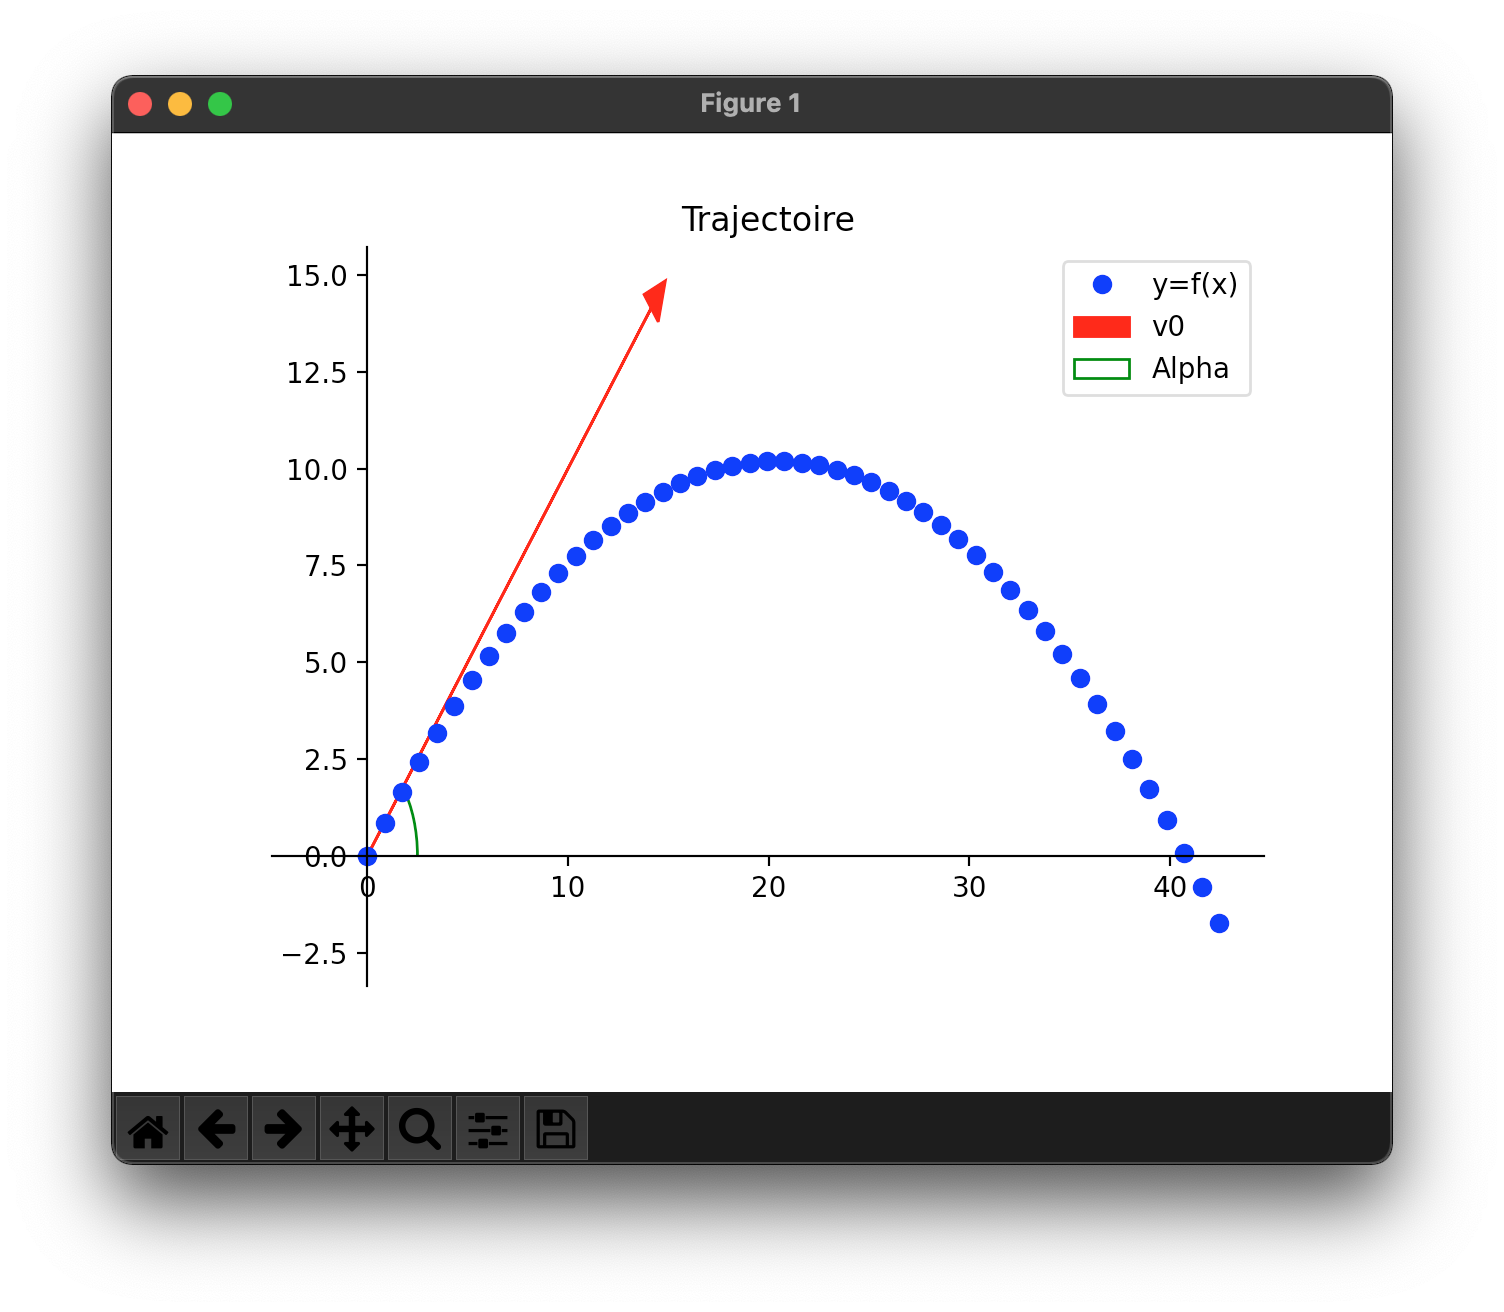
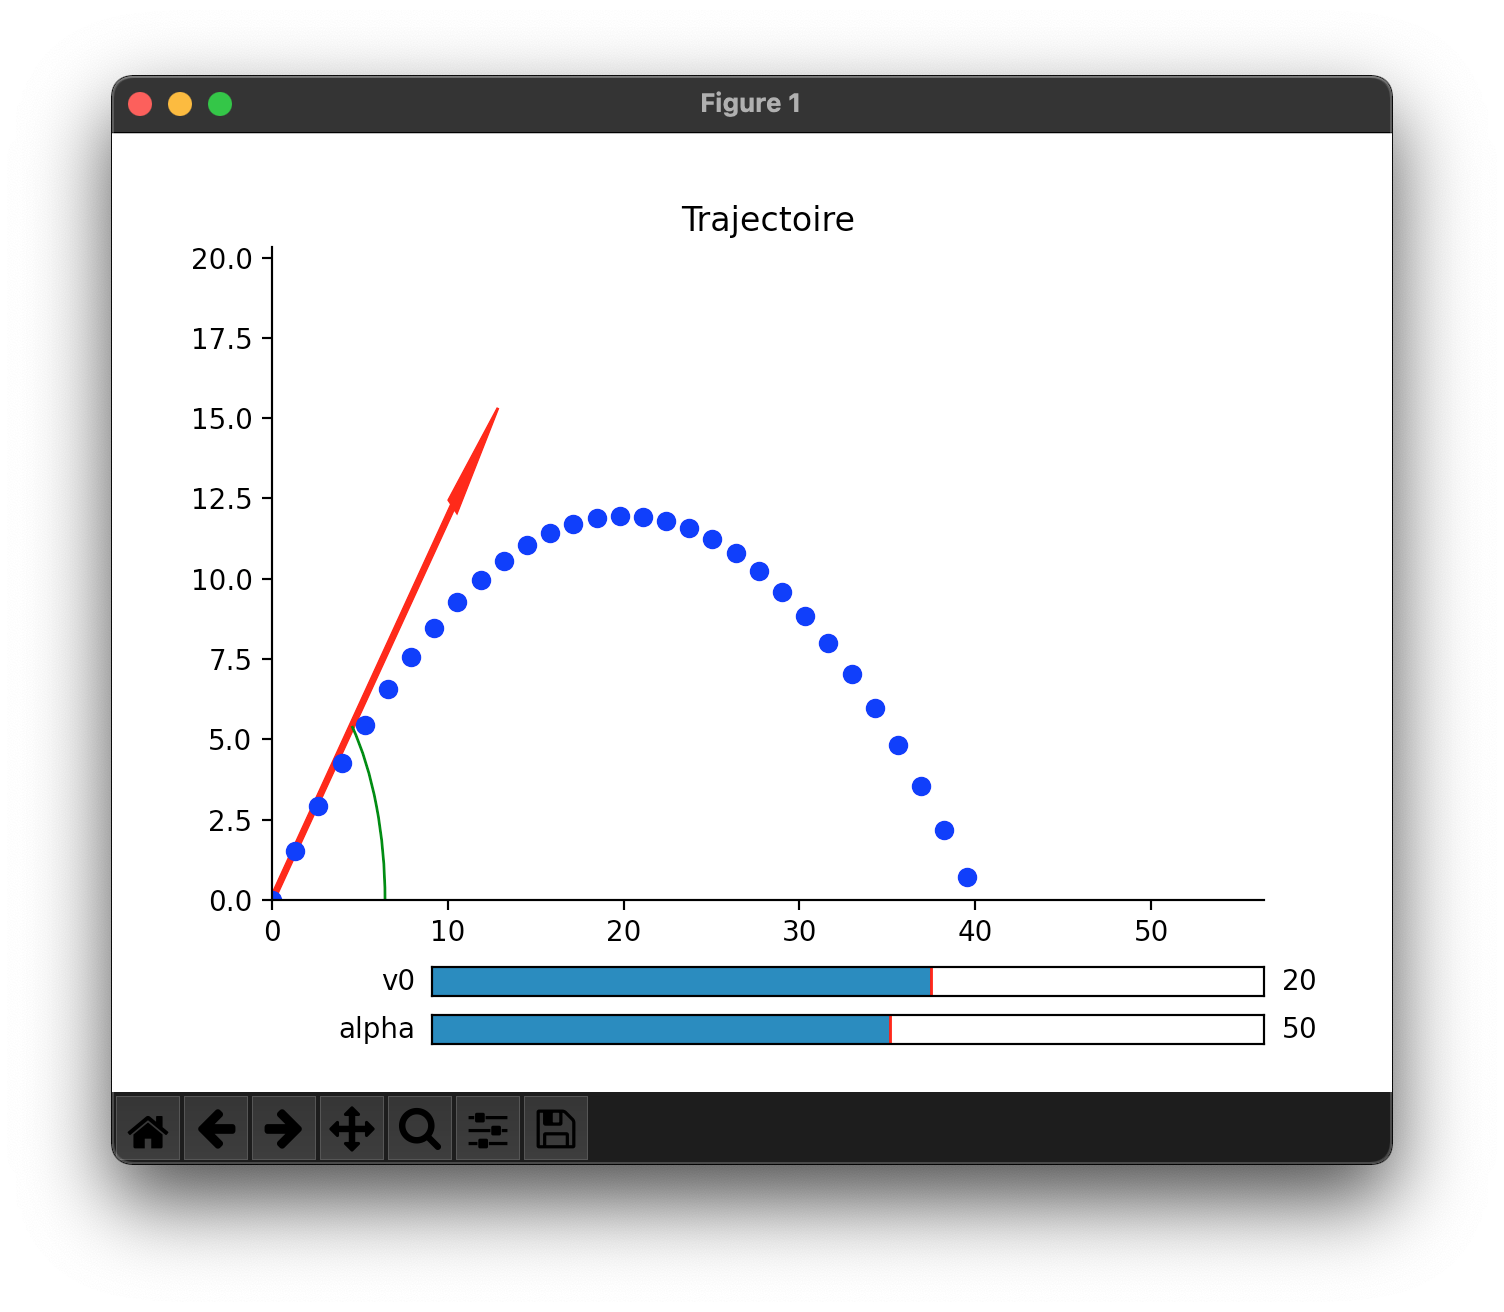
Ajout des sliders

diff --git a/trajectoire.py b/trajectoire.py
@@ -2,42 +2,78 @@
 import matplotlib.pyplot as plt
 import numpy as np
 from math import pi, cos, sin
-from matplotlib.patches import Arc
+from matplotlib.patches import Arc, Arrow
+from matplotlib.widgets import Slider
 
 # Réglage de l'affichage
-fig = plt.figure()
-ax = fig.add_subplot(1, 1, 1)
+fig, ax = plt.subplots()
 ax.spines['left'].set_position('zero')
 ax.spines['bottom'].set_position('zero')
 ax.spines['right'].set_color('none')
 ax.spines['top'].set_color('none')
 ax.xaxis.set_ticks_position('bottom')
 ax.yaxis.set_ticks_position('left')
-plt.title("Trajectoire")
-
-# Récupère l'ensemble des t
-t = np.linspace(0, 3, 50)
+plt.title('Trajectoire')
+plt.subplots_adjust(bottom=0.2)
 
 # Constantes de la simulation
 gterre = 9.81 # m/s^2
 v0 = 20 # m/s
-alpha = pi/4 # rad
-y0 = 0 # m
+alpha = 50 # rad
 
 # On calcul les coordonnées de v0
-v0x = v0 * cos(alpha)
-v0y = v0 * sin(alpha)
-plt.arrow(0, 0, v0x, v0y, head_width=1, head_length=1, color='r', label="v0")
+v0a = ax.add_patch(Arrow(0, 0, 0, 0, color='r', label='v0'))
 
 # Angle alpha
-angle = Arc([0, 0], 5, 5, 0, 0, alpha * 180 / pi, color='g', label='Alpha')
-ax.add_patch(angle)
+angle = ax.add_patch(Arc([0, 0], 5, 5, 0, 0, alpha, color='g', label='Alpha'))
 
-# On calcul les coordonnées des points
-x = v0 * cos(alpha) * t
-y = -0.5 * gterre * t**2 + v0 * sin(alpha) * t + y0
-plt.plot(x, y, 'ob', label="y=f(x)")
+# Définition du graphique
+l, = plt.plot([], [], 'ob', label='y=f(x)')
+
+# Sliders (pour changer les réglages)
+ax_v0 = plt.axes([0.25, 0.1, 0.65, 0.03])
+slider_v0 = Slider(ax_v0, 'v0', 5, 30, valinit=v0)
+
+ax_alpha = plt.axes([0.25, 0.05, 0.65, 0.03])
+slider_alpha = Slider(ax_alpha, 'alpha', 1, 90, valinit=alpha)
+
+# Calcul des coordonnées selon les paramètres
+def calculer(val):
+    # Récupère les valeurs
+    v0 = slider_v0.val
+    alpha = slider_alpha.val
+    tmax = int(2*v0*sin(alpha * pi / 180)/gterre) + 1
+    t = np.linspace(0, tmax, tmax*10)
+
+    # On modifie les coordonnées
+    x = v0 * cos(alpha * pi / 180) * t
+    y = -0.5 * gterre * t**2 + v0 * sin(alpha * pi / 180) * t
+    l.set_xdata(x)
+    l.set_ydata(y)
+
+    # De v0 aussi
+    global v0a
+    v0x = v0 * cos(alpha * pi / 180)
+    v0y = v0 * sin(alpha * pi / 180)
+    v0a.remove()
+    v0a = ax.add_patch(Arrow(0, 0, v0x, v0y, color='r', label='v0'))
+
+    # Et de alpha
+    global angle
+    angle.remove()
+    angle = ax.add_patch(Arc([0, 0], v0x, v0y, 0, 0, alpha, color='g', label='Alpha'))
+
+    # On update le graphique
+    ax.set_xlim([0, max(np.max(x), v0x) + 5])
+    ax.set_ylim([0, max(np.max(y), v0y) + 5])
+    fig.canvas.draw_idle()
+
+# Ajout de la méthode de calcul aux sliders
+slider_v0.on_changed(calculer)
+slider_alpha.on_changed(calculer)
+
+# On calcul la trajectoire initiale
+calculer(None)
 
 # On affiche
-plt.legend()
 plt.show()

diff --git a/README.md b/README.md
@@ -6,18 +6,6 @@
 python3 trajectoire.py
 ```
 
-## Réglage des paramètres
-
-Modifier les constantes à la ligne 21 :
-
-```python
-# Constantes de la simulation
-gterre = 9.81 # m/s^2
-v0 = 20 # m/s
-alpha = pi/4 # rad
-y0 = 0 # m
-```
-
 ## Capture d'écran
 
 ![Capture d'écran](/screenshot.png?raw=true)
